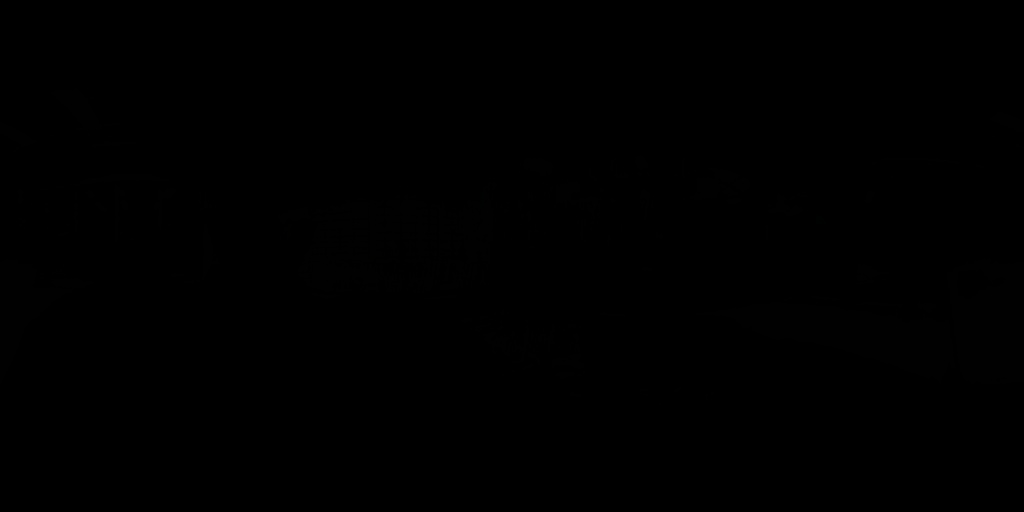
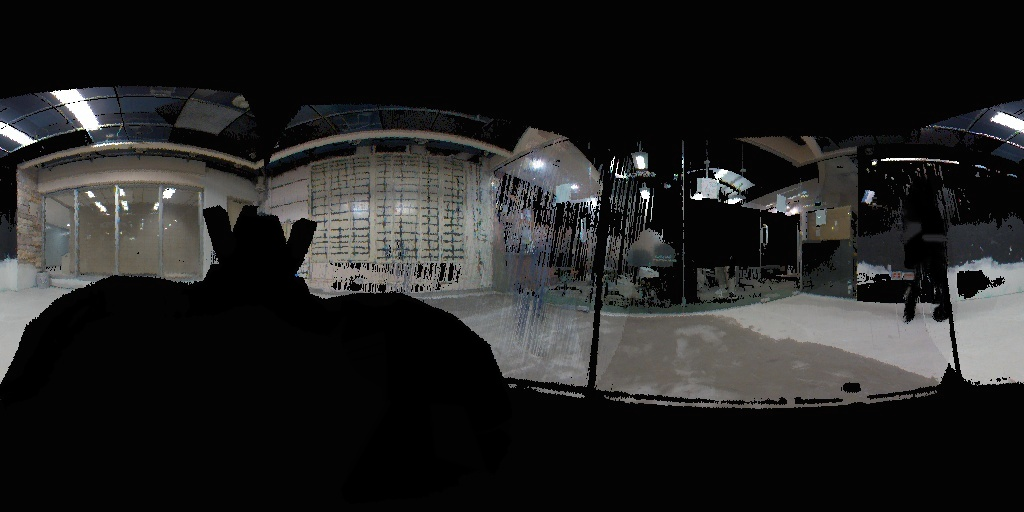
Inpainting

diff --git a/run.py b/run.py
@@ -7,6 +7,7 @@ import os
 
 import argparse
 from argparse import Namespace
+from pyinpaint import Inpaint
 
 # parser = argparse.ArgumentParser()
 # parser.add_argument("--model", default='BEiT_ADE')
@@ -44,6 +45,8 @@ if __name__ == '__main__':
     cv2.imwrite('./temp/temp_mask.jpg',conversed_mask)
 
     ## Inpaint human area
-
+    inpaint = Inpaint('./temp/temp_img.jpg','./temp/temp_mask.jpg')
+    inpainted_img = inpaint()
+    cv2.imwrite('./temp/temp_inpainted.jpg', inpainted_img*255)
     ## ERP projection on PCD 
     recon_pcd = project_ERP_to_PCD(args, erp_img)
